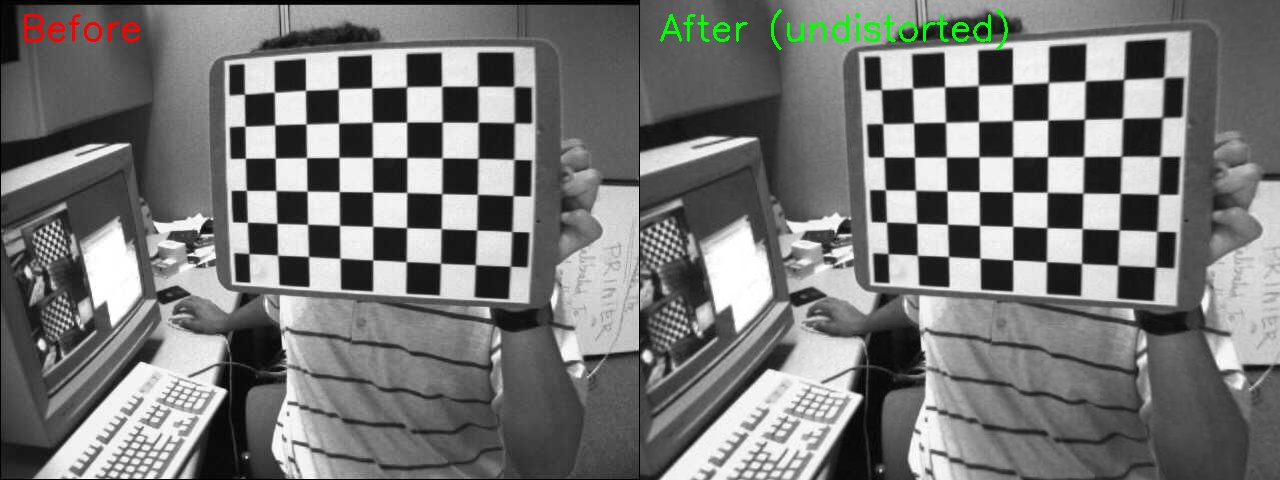
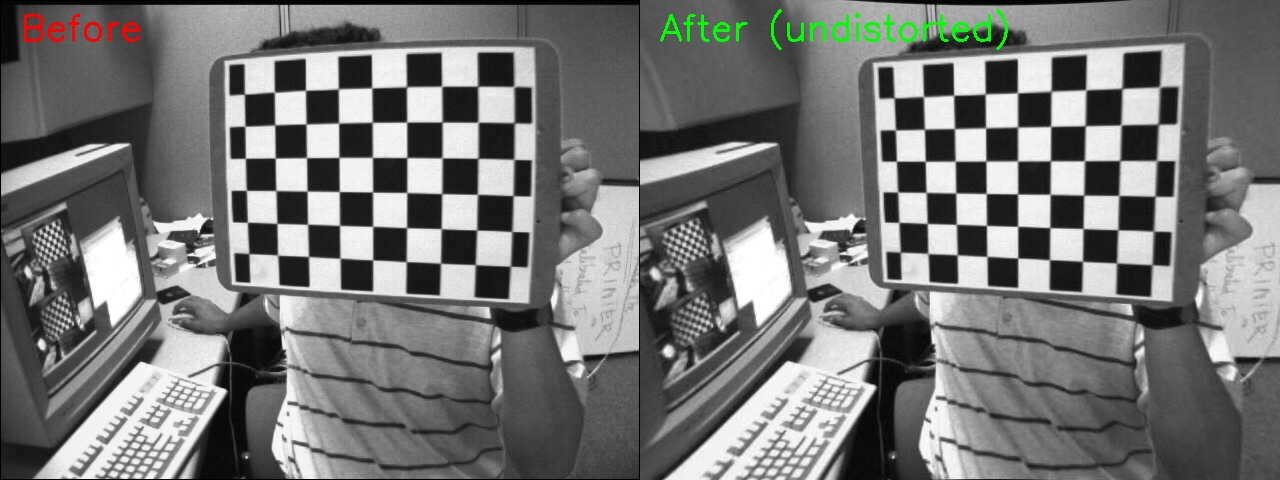
feat: add fisheye model support and per-image RPE visualization

Changed region(s): [[0.5, 0.0, 1.0, 1.0]]

diff --git a/calibrate.cpp b/calibrate.cpp
@@ -1,35 +1,44 @@
 #include <iostream>
 #include <vector>
 #include <string>
-#include <filesystem>
 #include <sstream>
 #include <iomanip>
+#include <filesystem>
 #include <opencv2/opencv.hpp>
 
 namespace fs = std::filesystem;
 
 // ─── 設定區（只需要改這裡）──────────────────────────
-const int   BOARD_W      = 9;      // 棋盤格內角點：寬
-const int   BOARD_H      = 6;      // 棋盤格內角點：高
-const float SQUARE_SIZE  = 25.0f;  // 實體方格邊長（mm），不確定就填 25
-const std::string IMAGE_DIR = "../images";   // 圖片資料夾
-const std::string OUTPUT    = "../calib_result.yaml"; // 輸出檔
+const int   BOARD_W      = 9;
+const int   BOARD_H      = 6;
+const float SQUARE_SIZE  = 25.0f;
+const std::string IMAGE_DIR = "../images";
+const std::string OUTPUT    = "../calib_result.yaml";
 // ────────────────────────────────────────────────────
 
-int main() {
+int main(int argc, char* argv[]) {
+    // 解析命令列參數
+    bool useFisheye = false;
+    for (int i = 1; i < argc; i++) {
+        if (std::string(argv[i]) == "--fisheye")
+            useFisheye = true;
+    }
+    std::cout << "校正模式: "
+              << (useFisheye ? "魚眼 (fisheye)" : "標準 (standard)") << "\n";
+
     cv::Size boardSize(BOARD_W, BOARD_H);
 
-    // 1. 建立理想 3D 角點座標（Z=0 平面）
+    // 1. 建立理想 3D 角點座標
     std::vector<cv::Point3f> objTemplate;
     for (int r = 0; r < BOARD_H; r++)
         for (int c = 0; c < BOARD_W; c++)
             objTemplate.emplace_back(c * SQUARE_SIZE,
                                      r * SQUARE_SIZE, 0.0f);
 
-    std::vector<std::vector<cv::Point3f>> objPoints; // 3D
-    std::vector<std::vector<cv::Point2f>> imgPoints; // 2D
+    std::vector<std::vector<cv::Point3f>> objPoints;
+    std::vector<std::vector<cv::Point2f>> imgPoints;
 
-    // 2. 讀取所有圖片，找角點
+    // 2. 讀取圖片，找角點
     std::vector<std::string> paths;
     for (auto& entry : fs::directory_iterator(IMAGE_DIR)) {
         std::string ext = entry.path().extension().string();
@@ -50,7 +59,10 @@ int main() {
 
     for (auto& path : paths) {
         cv::Mat img = cv::imread(path);
-        if (img.empty()) { std::cout << "  跳過（讀取失敗）: " << path << "\n"; continue; }
+        if (img.empty()) {
+            std::cout << "  跳過（讀取失敗）: " << path << "\n";
+            continue;
+        }
 
         imgSize = img.size();
         cv::Mat gray;
@@ -61,19 +73,21 @@ int main() {
             cv::CALIB_CB_ADAPTIVE_THRESH | cv::CALIB_CB_NORMALIZE_IMAGE);
 
         if (found) {
-            // 精細化角點位置
             cv::cornerSubPix(gray, corners, cv::Size(11, 11), cv::Size(-1, -1),
-                cv::TermCriteria(cv::TermCriteria::EPS + cv::TermCriteria::MAX_ITER, 30, 0.001));
+                cv::TermCriteria(cv::TermCriteria::EPS +
+                                 cv::TermCriteria::MAX_ITER, 30, 0.001));
             objPoints.push_back(objTemplate);
             imgPoints.push_back(corners);
             successCount++;
             std::cout << "  ✓ " << fs::path(path).filename().string() << "\n";
         } else {
-            std::cout << "  ✗ 找不到角點: " << fs::path(path).filename().string() << "\n";
+            std::cout << "  ✗ 找不到角點: "
+                      << fs::path(path).filename().string() << "\n";
         }
     }
 
-    std::cout << "\n成功偵測：" << successCount << " / " << paths.size() << " 張\n";
+    std::cout << "\n成功偵測：" << successCount
+              << " / " << paths.size() << " 張\n";
 
     if (successCount < 4) {
         std::cerr << "錯誤：至少需要 4 張成功偵測的圖片才能校正。\n";
@@ -84,26 +98,39 @@ int main() {
     std::cout << "\n執行校正中...\n";
     cv::Mat cameraMatrix, distCoeffs;
     std::vector<cv::Mat> rvecs, tvecs;
+    double rpe = 0;
 
-    double rpe = cv::calibrateCamera(objPoints, imgPoints, imgSize,
-                                     cameraMatrix, distCoeffs,
-                                     rvecs, tvecs);
+    if (useFisheye) {
+        cameraMatrix = cv::Mat::eye(3, 3, CV_64F);
+        distCoeffs   = cv::Mat::zeros(4, 1, CV_64F);
+        rpe = cv::fisheye::calibrate(objPoints, imgPoints, imgSize,
+            cameraMatrix, distCoeffs, rvecs, tvecs,
+            cv::fisheye::CALIB_RECOMPUTE_EXTRINSIC |
+            cv::fisheye::CALIB_FIX_SKEW);
+    } else {
+        rpe = cv::calibrateCamera(objPoints, imgPoints, imgSize,
+            cameraMatrix, distCoeffs, rvecs, tvecs);
+    }
 
     std::cout << "重投影誤差 (RPE): " << rpe << " px\n";
     std::cout << "(RPE < 1.0 代表校正品質良好)\n\n";
-
-    // 4. 印出結果
     std::cout << "=== 內參矩陣 (K) ===\n" << cameraMatrix << "\n\n";
-    std::cout << "=== 畸變係數 (k1 k2 p1 p2 k3) ===\n" << distCoeffs << "\n\n";
+    std::cout << "=== 畸變係數 ===\n" << distCoeffs << "\n\n";
 
-    // 5. 計算並印出每張圖的 RPE
-    std::cout << "\n=== 每張圖的重投影誤差 ===\n";
+    // 4. 計算每張圖的 RPE 並畫長條圖
+    std::cout << "=== 每張圖的重投影誤差 ===\n";
     std::vector<double> perImageRPE;
 
     for (int i = 0; i < (int)objPoints.size(); i++) {
         std::vector<cv::Point2f> reprojected;
-        cv::projectPoints(objPoints[i], rvecs[i], tvecs[i],
-                          cameraMatrix, distCoeffs, reprojected);
+
+        if (useFisheye) {
+            cv::fisheye::projectPoints(objPoints[i], reprojected,
+                rvecs[i], tvecs[i], cameraMatrix, distCoeffs);
+        } else {
+            cv::projectPoints(objPoints[i], rvecs[i], tvecs[i],
+                cameraMatrix, distCoeffs, reprojected);
+        }
 
         double err = 0;
         for (int j = 0; j < (int)reprojected.size(); j++) {
@@ -121,87 +148,81 @@ int main() {
     }
 
     // 畫長條圖
-    int barW = 60, barH = 400;
-    int margin = 60;
+    int barW = 60, barH = 400, margin = 60;
     int imgW = margin + (int)perImageRPE.size() * (barW + 10) + margin;
     int imgH = barH + margin * 2;
     cv::Mat chart(imgH, imgW, CV_8UC3, cv::Scalar(245, 245, 245));
 
-    // 找最大值，用來決定 Y 軸比例
     double maxRPE = *std::max_element(perImageRPE.begin(), perImageRPE.end());
-    maxRPE = std::max(maxRPE, 1.0);  // 最少畫到 1.0px
+    maxRPE = std::max(maxRPE, 1.0);
 
-    // 畫 Y 軸基準線（1.0px 品質門檻）
     int threshY = imgH - margin - (int)(1.0 / maxRPE * barH);
-    cv::line(chart,
-        {margin, threshY},
-        {imgW - margin, threshY},
+    cv::line(chart, {margin, threshY}, {imgW - margin, threshY},
         cv::Scalar(200, 80, 80), 1, cv::LINE_AA);
-    cv::putText(chart, "1.0px threshold",
-        {margin + 4, threshY - 6},
-        cv::FONT_HERSHEY_SIMPLEX, 0.4,
-        cv::Scalar(200, 80, 80), 1);
+    cv::putText(chart, "1.0px threshold", {margin + 4, threshY - 6},
+        cv::FONT_HERSHEY_SIMPLEX, 0.4, cv::Scalar(200, 80, 80), 1);
 
-    // 畫每張圖的長條
     for (int i = 0; i < (int)perImageRPE.size(); i++) {
         int x = margin + i * (barW + 10);
         int h = (int)(perImageRPE[i] / maxRPE * barH);
         int y = imgH - margin - h;
 
-        // 超過 1.0px 用紅色，否則用綠色
         cv::Scalar color = (perImageRPE[i] > 1.0)
             ? cv::Scalar(80, 80, 200)
             : cv::Scalar(80, 180, 80);
 
         cv::rectangle(chart,
-            cv::Point(x, y),
-            cv::Point(x + barW, imgH - margin),
+            cv::Point(x, y), cv::Point(x + barW, imgH - margin),
             color, -1);
 
-        // 數值標籤
         std::ostringstream ss;
         ss << std::fixed << std::setprecision(2) << perImageRPE[i];
-        cv::putText(chart, ss.str(),
-            {x + 4, y - 6},
-            cv::FONT_HERSHEY_SIMPLEX, 0.38,
-            cv::Scalar(50, 50, 50), 1);
+        cv::putText(chart, ss.str(), {x + 4, y - 6},
+            cv::FONT_HERSHEY_SIMPLEX, 0.38, cv::Scalar(50, 50, 50), 1);
 
-        // 圖片編號
         cv::putText(chart, std::to_string(i+1),
             {x + barW/2 - 6, imgH - margin + 18},
-            cv::FONT_HERSHEY_SIMPLEX, 0.4,
-            cv::Scalar(80, 80, 80), 1);
+            cv::FONT_HERSHEY_SIMPLEX, 0.4, cv::Scalar(80, 80, 80), 1);
     }
 
-    // 標題
-    cv::putText(chart, "Reprojection Error per Image (px)",
-        {margin, 30},
-        cv::FONT_HERSHEY_SIMPLEX, 0.6,
-        cv::Scalar(40, 40, 40), 1);
+    std::string chartTitle = std::string("RPE per Image - ") +
+                             (useFisheye ? "Fisheye" : "Standard") + " model (px)";
+    cv::putText(chart, chartTitle, {margin, 30},
+        cv::FONT_HERSHEY_SIMPLEX, 0.6, cv::Scalar(40, 40, 40), 1);
 
-    cv::imwrite("../rpe_per_image.png", chart);
-    std::cout << "\n長條圖已儲存至: rpe_per_image.png\n";
+    std::string chartPath = useFisheye
+        ? "../rpe_fisheye.png" : "../rpe_per_image.png";
+    cv::imwrite(chartPath, chart);
+    std::cout << "\n長條圖已儲存至: " << chartPath << "\n";
 
     // 5. 存成 YAML
     cv::FileStorage fs_out(OUTPUT, cv::FileStorage::WRITE);
-    fs_out << "image_width"   << imgSize.width;
-    fs_out << "image_height"  << imgSize.height;
-    fs_out << "camera_matrix" << cameraMatrix;
-    fs_out << "dist_coeffs"   << distCoeffs;
+    fs_out << "image_width"        << imgSize.width;
+    fs_out << "image_height"       << imgSize.height;
+    fs_out << "model"              << (useFisheye ? "fisheye" : "standard");
+    fs_out << "camera_matrix"      << cameraMatrix;
+    fs_out << "dist_coeffs"        << distCoeffs;
     fs_out << "reprojection_error" << rpe;
     fs_out.release();
     std::cout << "結果已儲存至: " << OUTPUT << "\n";
 
-    // 6. 輸出一張校正前後對比圖
+    // 6. 輸出校正前後對比圖
     cv::Mat sample = cv::imread(paths[0]);
     cv::Mat undistorted;
-    cv::undistort(sample, undistorted, cameraMatrix, distCoeffs);
 
-    // 並排合成
+    if (useFisheye) {
+        cv::Mat newK;
+        cv::fisheye::estimateNewCameraMatrixForUndistortRectify(
+            cameraMatrix, distCoeffs, imgSize,
+            cv::Matx33d::eye(), newK);
+        cv::fisheye::undistortImage(sample, undistorted,
+            cameraMatrix, distCoeffs, newK);
+    } else {
+        cv::undistort(sample, undistorted, cameraMatrix, distCoeffs);
+    }
+
     cv::Mat comparison;
     cv::hconcat(sample, undistorted, comparison);
-
-    // 加標籤
     cv::putText(comparison, "Before",
         cv::Point(20, 40), cv::FONT_HERSHEY_SIMPLEX,
         1.2, cv::Scalar(0, 0, 255), 2);

diff --git a/README.md b/README.md
@@ -1,41 +1,60 @@
 # Camera Intrinsic Calibration Tool (C++ / OpenCV)
 
 A command-line tool that computes camera intrinsic parameters and distortion
-coefficients from a set of chessboard images, following the Zhang (2000) method.
+coefficients from chessboard images. Supports both **standard** and
+**fisheye** camera models.
 
 ## Results
 
-| Metric | Value |
-|--------|-------|
-| Reprojection Error (RPE) | **0.42 px** |
-| fx / fy | 536.4 / 536.4 px |
-| Principal point (cx, cy) | (342.1, 236.0) px |
-| Distortion (k1) | -0.266 (barrel) |
+| Model | RPE | k1 (distortion) |
+|-------|-----|-----------------|
+| Standard | **0.42 px** | -0.266 (barrel) |
+| Fisheye  | **0.43 px** | equidistant projection |
 
-![Before / After undistortion](comparison.jpg)
+Both models stay well below the 1.0 px quality threshold.
+Standard model fits better for this dataset (non-fisheye lens).
+
+### Before / After undistortion
+![comparison](comparison.jpg)
+
+### RPE per image — Standard model
+![rpe standard](rpe_per_image.png)
+
+### RPE per image — Fisheye model
+![rpe fisheye](rpe_fisheye.png)
+
+## Usage
+```bash
+./calibrate              # standard model (default)
+./calibrate --fisheye    # fisheye model (AVM cameras)
+```
 
 ## Pipeline
 ```
 Chessboard images
       │
       ▼
-findChessboardCorners()   ← detect inner corners
-cornerSubPix()            ← refine to sub-pixel accuracy
+findChessboardCorners()
+cornerSubPix()            ← sub-pixel accuracy
       │
       ▼
-calibrateCamera()         ← solve for K and distortion coeffs
+calibrateCamera()         ← standard: polynomial distortion
+fisheye::calibrate()      ← fisheye: equidistant projection
       │
       ▼
-calib_result.yaml         ← intrinsic matrix + dist coeffs
-comparison.jpg            ← before / after undistort visual
+projectPoints()           ← compute per-image RPE
+RPE bar chart             ← visualize quality per image
+      │
+      ▼
+calib_result.yaml         ← K matrix + distortion coeffs
+comparison.jpg            ← before / after undistort
 ```
 
 ## Build & Run
 ```bash
-# Requirements: CMake >= 3.10, OpenCV >= 4.x, g++ with C++17
 sudo apt install build-essential cmake libopencv-dev
 
-git clone https://github.com/YOUR_USERNAME/camera-calibration.git
+git clone https://github.com/jeason522/camera-calibration.git
 cd camera-calibration
 mkdir build && cd build
 cmake ..
@@ -48,7 +67,9 @@ make
 | File | Description |
 |------|-------------|
 | `calib_result.yaml` | Camera matrix K and distortion coefficients |
-| `comparison.jpg` | Side-by-side before/after undistortion |
+| `comparison.jpg` | Before / after undistortion |
+| `rpe_per_image.png` | Per-image RPE — standard model |
+| `rpe_fisheye.png` | Per-image RPE — fisheye model |
 
 ## Environment
 
